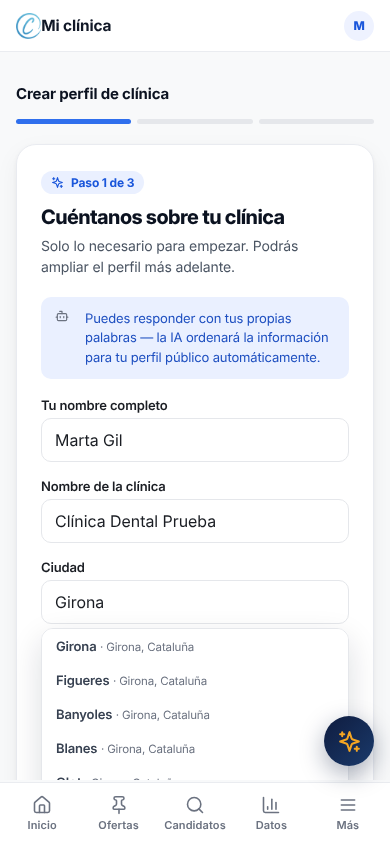
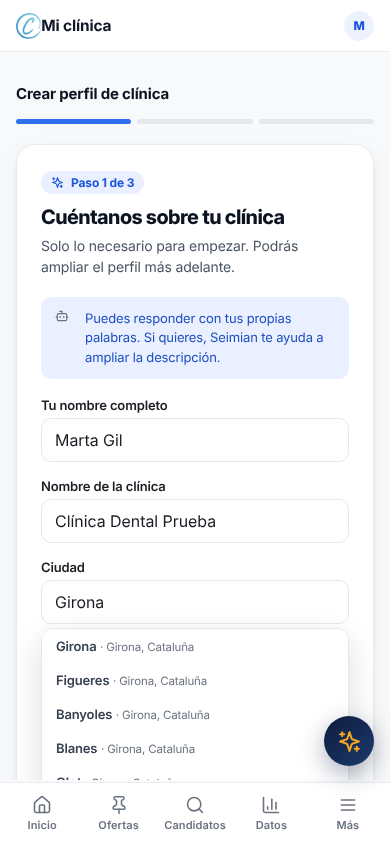
Arreglo: fuera «IA» de los textos (CERCO no usa ninguna IA)
Donde ponía «con IA» o «generado por IA» ahora pone Seimian, como ya hacía el
lado del profesional («Escríbelo con Seimian»). El aviso «la IA ordenará la
información…» pasa a «Si quieres, Seimian te ayuda a ampliar la descripción».
Las pruebas comprueban ahora en cada pantalla que no aparezcan palabras
prohibidas por el encargo (IA, RRHH, responsable de contratación, TikTok…).

Claude-Session: https://claude.ai/code/session_01L5qSpH5ECCjMh1xfSpjWDJ

Changed region(s): [[0.2154, 0.3697, 0.8308, 0.4313]]

diff --git a/index.html b/index.html
@@ -2223,13 +2223,13 @@ __SCREENS_CSS__/* ===== onboarding ===== */
           <div class="tool-icon" style="background:#EEF2FF;"><svg xmlns="http://www.w3.org/2000/svg" width="20" height="20" viewBox="0 0 24 24" fill="none" stroke="#1A56DB" stroke-width="2" stroke-linecap="round" stroke-linejoin="round" style="display:inline-block;vertical-align:-0.15em;flex-shrink:0;"><path d="M21.174 6.812a1 1 0 0 0-3.986-3.987L3.842 16.174a2 2 0 0 0-.5.83l-1.321 4.352a.5.5 0 0 0 .623.622l4.353-1.32a2 2 0 0 0 .83-.497z"/><path d="m15 5 4 4"/></svg></div>
           <span class="tc-chev" id="chev-crear-oferta" style="color:#C1C7D0;transition:transform .2s;margin-top:6px;"><svg xmlns="http://www.w3.org/2000/svg" width="16" height="16" viewBox="0 0 24 24" fill="none" stroke="currentColor" stroke-width="2" stroke-linecap="round" stroke-linejoin="round" style="display:inline-block;vertical-align:-0.15em;flex-shrink:0;"><path d="m6 9 6 6 6-6"/></svg></span>
         </div>
-        <div class="tool-title">Redactar oferta con IA</div>
+        <div class="tool-title">Redactar oferta con Seimian</div>
         <div class="tool-desc">Escribe tres o cuatro palabras clave y Seimian genera la descripción completa del puesto en segundos.</div>
         <div class="tool-badge"><svg xmlns="http://www.w3.org/2000/svg" width="12" height="12" viewBox="0 0 24 24" fill="none" stroke="currentColor" stroke-width="2" stroke-linecap="round" stroke-linejoin="round" style="display:inline-block;vertical-align:-0.15em;flex-shrink:0;"><path d="m12 3-1.9 5.8a2 2 0 0 1-1.3 1.3L3 12l5.8 1.9a2 2 0 0 1 1.3 1.3L12 21l1.9-5.8a2 2 0 0 1 1.3-1.3L21 12l-5.8-1.9a2 2 0 0 1-1.3-1.3z"/><path d="M5 3v4"/><path d="M19 17v4"/><path d="M3 5h4"/><path d="M17 19h4"/></svg>Seimian</div>
       </div>
       <div class="tc-more" id="more-crear-oferta" style="display:none;margin-top:14px;padding-top:14px;border-top:1px solid #F1F3F5;">
         <div style="font-size:10px;font-weight:800;letter-spacing:.8px;text-transform:uppercase;color:#6B7280;margin-bottom:10px;">Cómo funciona</div>
-        <div style="display:flex;gap:9px;align-items:flex-start;margin-bottom:8px;"><span style="min-width:20px;height:20px;border-radius:6px;background:#EEF2FF;color:#1A56DB;font-size:10.5px;font-weight:800;display:flex;align-items:center;justify-content:center;margin-top:1px;">1</span><span style="font-size:12.5px;color:#4B5563;line-height:1.5;">Pulsa "Nueva oferta" y escribe el título y la ubicación.</span></div><div style="display:flex;gap:9px;align-items:flex-start;margin-bottom:8px;"><span style="min-width:20px;height:20px;border-radius:6px;background:#EEF2FF;color:#1A56DB;font-size:10.5px;font-weight:800;display:flex;align-items:center;justify-content:center;margin-top:1px;">2</span><span style="font-size:12.5px;color:#4B5563;line-height:1.5;">Pulsa "Generar descripción con IA" y añade 2-3 palabras clave.</span></div><div style="display:flex;gap:9px;align-items:flex-start;margin-bottom:8px;"><span style="min-width:20px;height:20px;border-radius:6px;background:#EEF2FF;color:#1A56DB;font-size:10.5px;font-weight:800;display:flex;align-items:center;justify-content:center;margin-top:1px;">3</span><span style="font-size:12.5px;color:#4B5563;line-height:1.5;">Revisa el texto y ajústalo si quieres.</span></div><div style="display:flex;gap:9px;align-items:flex-start;margin-bottom:8px;"><span style="min-width:20px;height:20px;border-radius:6px;background:#EEF2FF;color:#1A56DB;font-size:10.5px;font-weight:800;display:flex;align-items:center;justify-content:center;margin-top:1px;">4</span><span style="font-size:12.5px;color:#4B5563;line-height:1.5;">Publica: la oferta aparece al instante en tu panel.</span></div>
+        <div style="display:flex;gap:9px;align-items:flex-start;margin-bottom:8px;"><span style="min-width:20px;height:20px;border-radius:6px;background:#EEF2FF;color:#1A56DB;font-size:10.5px;font-weight:800;display:flex;align-items:center;justify-content:center;margin-top:1px;">1</span><span style="font-size:12.5px;color:#4B5563;line-height:1.5;">Pulsa "Nueva oferta" y escribe el título y la ubicación.</span></div><div style="display:flex;gap:9px;align-items:flex-start;margin-bottom:8px;"><span style="min-width:20px;height:20px;border-radius:6px;background:#EEF2FF;color:#1A56DB;font-size:10.5px;font-weight:800;display:flex;align-items:center;justify-content:center;margin-top:1px;">2</span><span style="font-size:12.5px;color:#4B5563;line-height:1.5;">Pulsa "Generar descripción con Seimian" y añade 2-3 palabras clave.</span></div><div style="display:flex;gap:9px;align-items:flex-start;margin-bottom:8px;"><span style="min-width:20px;height:20px;border-radius:6px;background:#EEF2FF;color:#1A56DB;font-size:10.5px;font-weight:800;display:flex;align-items:center;justify-content:center;margin-top:1px;">3</span><span style="font-size:12.5px;color:#4B5563;line-height:1.5;">Revisa el texto y ajústalo si quieres.</span></div><div style="display:flex;gap:9px;align-items:flex-start;margin-bottom:8px;"><span style="min-width:20px;height:20px;border-radius:6px;background:#EEF2FF;color:#1A56DB;font-size:10.5px;font-weight:800;display:flex;align-items:center;justify-content:center;margin-top:1px;">4</span><span style="font-size:12.5px;color:#4B5563;line-height:1.5;">Publica: la oferta aparece al instante en tu panel.</span></div>
         <div style="background:#F5F7FF;border-radius:9px;padding:10px 12px;font-size:12px;color:#1E40AF;line-height:1.5;margin-top:10px;">Seimian también propone dos combinaciones de perfil DISC válidas según el puesto que escribas.</div>
         <button onclick="event.stopPropagation(); showScreen('crear-oferta')" style="width:100%;margin-top:12px;background:#1A56DB;color:white;border:none;border-radius:9px;padding:10px;font-size:13px;font-weight:700;cursor:pointer;">Abrir esta herramienta</button>
       </div>
@@ -2287,7 +2287,7 @@ __SCREENS_CSS__/* ===== onboarding ===== */
       </div>
       <div class="tc-more" id="more-nueva" style="display:none;margin-top:14px;padding-top:14px;border-top:1px solid #F1F3F5;">
         <div style="font-size:10px;font-weight:800;letter-spacing:.8px;text-transform:uppercase;color:#6B7280;margin-bottom:10px;">Cómo funciona</div>
-        <div style="display:flex;gap:9px;align-items:flex-start;margin-bottom:8px;"><span style="min-width:20px;height:20px;border-radius:6px;background:#EEF2FF;color:#1A56DB;font-size:10.5px;font-weight:800;display:flex;align-items:center;justify-content:center;margin-top:1px;">1</span><span style="font-size:12.5px;color:#4B5563;line-height:1.5;">Escribe título, ubicación y tipo de jornada.</span></div><div style="display:flex;gap:9px;align-items:flex-start;margin-bottom:8px;"><span style="min-width:20px;height:20px;border-radius:6px;background:#EEF2FF;color:#1A56DB;font-size:10.5px;font-weight:800;display:flex;align-items:center;justify-content:center;margin-top:1px;">2</span><span style="font-size:12.5px;color:#4B5563;line-height:1.5;">Marca al menos dos perfiles DISC que encajen con el puesto.</span></div><div style="display:flex;gap:9px;align-items:flex-start;margin-bottom:8px;"><span style="min-width:20px;height:20px;border-radius:6px;background:#EEF2FF;color:#1A56DB;font-size:10.5px;font-weight:800;display:flex;align-items:center;justify-content:center;margin-top:1px;">3</span><span style="font-size:12.5px;color:#4B5563;line-height:1.5;">Genera la descripción con IA o escríbela tú.</span></div><div style="display:flex;gap:9px;align-items:flex-start;margin-bottom:8px;"><span style="min-width:20px;height:20px;border-radius:6px;background:#EEF2FF;color:#1A56DB;font-size:10.5px;font-weight:800;display:flex;align-items:center;justify-content:center;margin-top:1px;">4</span><span style="font-size:12.5px;color:#4B5563;line-height:1.5;">Publica: empezarás a recibir candidatos ordenados por encaje.</span></div>
+        <div style="display:flex;gap:9px;align-items:flex-start;margin-bottom:8px;"><span style="min-width:20px;height:20px;border-radius:6px;background:#EEF2FF;color:#1A56DB;font-size:10.5px;font-weight:800;display:flex;align-items:center;justify-content:center;margin-top:1px;">1</span><span style="font-size:12.5px;color:#4B5563;line-height:1.5;">Escribe título, ubicación y tipo de jornada.</span></div><div style="display:flex;gap:9px;align-items:flex-start;margin-bottom:8px;"><span style="min-width:20px;height:20px;border-radius:6px;background:#EEF2FF;color:#1A56DB;font-size:10.5px;font-weight:800;display:flex;align-items:center;justify-content:center;margin-top:1px;">2</span><span style="font-size:12.5px;color:#4B5563;line-height:1.5;">Marca al menos dos perfiles DISC que encajen con el puesto.</span></div><div style="display:flex;gap:9px;align-items:flex-start;margin-bottom:8px;"><span style="min-width:20px;height:20px;border-radius:6px;background:#EEF2FF;color:#1A56DB;font-size:10.5px;font-weight:800;display:flex;align-items:center;justify-content:center;margin-top:1px;">3</span><span style="font-size:12.5px;color:#4B5563;line-height:1.5;">Genera la descripción con Seimian o escríbela tú.</span></div><div style="display:flex;gap:9px;align-items:flex-start;margin-bottom:8px;"><span style="min-width:20px;height:20px;border-radius:6px;background:#EEF2FF;color:#1A56DB;font-size:10.5px;font-weight:800;display:flex;align-items:center;justify-content:center;margin-top:1px;">4</span><span style="font-size:12.5px;color:#4B5563;line-height:1.5;">Publica: empezarás a recibir candidatos ordenados por encaje.</span></div>
         <div style="background:#F5F7FF;border-radius:9px;padding:10px 12px;font-size:12px;color:#1E40AF;line-height:1.5;margin-top:10px;">La oferta se guarda en este dispositivo, así que la verás al volver a entrar.</div>
         <button onclick="event.stopPropagation(); showScreen('crear-oferta')" style="width:100%;margin-top:12px;background:#1A56DB;color:white;border:none;border-radius:9px;padding:10px;font-size:13px;font-weight:700;cursor:pointer;">Abrir esta herramienta</button>
       </div>
@@ -2323,7 +2323,7 @@ __SCREENS_CSS__/* ===== onboarding ===== */
   <h1>+ Crear nueva oferta</h1>
   <div class="sub">Rellena lo esencial — podrás editarla después. Tardarás menos de un minuto.</div>
 
-  <div class="ai-hint"><svg xmlns="http://www.w3.org/2000/svg" width="14" height="14" viewBox="0 0 24 24" fill="none" stroke="#6B7280" stroke-width="2" stroke-linecap="round" stroke-linejoin="round" style="display:inline-block;vertical-align:-0.15em;flex-shrink:0;"><path d="M12 8V4H8"/><rect width="16" height="12" x="4" y="8" rx="2"/><path d="M2 14h2"/><path d="M20 14h2"/><path d="M15 13v2"/><path d="M9 13v2"/></svg> Escribe el título y la ubicación; el resto puedes generarlo con IA o rellenarlo tú mismo/a.</div>
+  <div class="ai-hint"><svg xmlns="http://www.w3.org/2000/svg" width="14" height="14" viewBox="0 0 24 24" fill="none" stroke="#6B7280" stroke-width="2" stroke-linecap="round" stroke-linejoin="round" style="display:inline-block;vertical-align:-0.15em;flex-shrink:0;"><path d="M12 8V4H8"/><rect width="16" height="12" x="4" y="8" rx="2"/><path d="M2 14h2"/><path d="M20 14h2"/><path d="M15 13v2"/><path d="M9 13v2"/></svg> Escribe el título y la ubicación; el resto puedes generarlo con Seimian o rellenarlo tú mismo/a.</div>
 
   <div class="card">
     <div class="field">
@@ -2414,7 +2414,7 @@ __SCREENS_CSS__/* ===== onboarding ===== */
     <div class="field">
       <label>Descripción del puesto</label>
       <textarea id="co-descripcion" placeholder="Ej: buscamos a alguien con ganas de aprender, que aporte buen rollo al equipo y trato cercano con el paciente..."></textarea>
-      <button type="button" class="ai-suggest-btn" onclick="generateOfferDescAI()"><span style="display:inline-flex;align-items:center;gap:7px;"><svg xmlns="http://www.w3.org/2000/svg" width="14" height="14" viewBox="0 0 24 24" fill="none" stroke="currentColor" stroke-width="2" stroke-linecap="round" stroke-linejoin="round" style="display:inline-block;vertical-align:-0.15em;flex-shrink:0;"><path d="m12 3-1.9 5.8a2 2 0 0 1-1.3 1.3L3 12l5.8 1.9a2 2 0 0 1 1.3 1.3L12 21l1.9-5.8a2 2 0 0 1 1.3-1.3L21 12l-5.8-1.9a2 2 0 0 1-1.3-1.3z"/><path d="M5 3v4"/><path d="M19 17v4"/><path d="M3 5h4"/><path d="M17 19h4"/></svg>Generar descripción con IA</span></button>
+      <button type="button" class="ai-suggest-btn" onclick="generateOfferDescAI()"><span style="display:inline-flex;align-items:center;gap:7px;"><svg xmlns="http://www.w3.org/2000/svg" width="14" height="14" viewBox="0 0 24 24" fill="none" stroke="currentColor" stroke-width="2" stroke-linecap="round" stroke-linejoin="round" style="display:inline-block;vertical-align:-0.15em;flex-shrink:0;"><path d="m12 3-1.9 5.8a2 2 0 0 1-1.3 1.3L3 12l5.8 1.9a2 2 0 0 1 1.3 1.3L12 21l1.9-5.8a2 2 0 0 1 1.3-1.3L21 12l-5.8-1.9a2 2 0 0 1-1.3-1.3z"/><path d="M5 3v4"/><path d="M19 17v4"/><path d="M3 5h4"/><path d="M17 19h4"/></svg>Generar descripción con Seimian</span></button>
     </div>
 
     <div class="field">
@@ -2574,7 +2574,7 @@ __SCREENS_CSS__/* ===== onboarding ===== */
           <div style="font-size:12px;color:#6B7280;">Mañana · 10:30 · Videollamada</div>
         </div>
       </div>
-      <button onclick="showScreen('entrevista')" style="width:100%;background:#F0F7FF;color:#1A56DB;border:none;border-radius:9px;padding:9px;font-size:12.5px;font-weight:700;cursor:pointer;">Ver preguntas sugeridas por IA →</button>
+      <button onclick="showScreen('entrevista')" style="width:100%;background:#F0F7FF;color:#1A56DB;border:none;border-radius:9px;padding:9px;font-size:12.5px;font-weight:700;cursor:pointer;">Ver preguntas sugeridas por Seimian →</button>
     </div>
 
     <!-- Insight IA del día -->
@@ -3260,7 +3260,7 @@ __SCREENS_CSS__/* ===== onboarding ===== */
     <div class="eyebrow"><span style="display:inline-flex;align-items:center;gap:7px;"><svg xmlns="http://www.w3.org/2000/svg" width="13" height="13" viewBox="0 0 24 24" fill="none" stroke="currentColor" stroke-width="2" stroke-linecap="round" stroke-linejoin="round" style="display:inline-block;vertical-align:-0.15em;flex-shrink:0;"><path d="m12 3-1.9 5.8a2 2 0 0 1-1.3 1.3L3 12l5.8 1.9a2 2 0 0 1 1.3 1.3L12 21l1.9-5.8a2 2 0 0 1 1.3-1.3L21 12l-5.8-1.9a2 2 0 0 1-1.3-1.3z"/><path d="M5 3v4"/><path d="M19 17v4"/><path d="M3 5h4"/><path d="M17 19h4"/></svg>Paso 1 de 3</span></div>
     <h1>Cuéntanos sobre tu clínica</h1>
     <p class="sub">Solo lo necesario para empezar. Podrás ampliar el perfil más adelante.</p>
-    <div class="ai-hint"><svg xmlns="http://www.w3.org/2000/svg" width="14" height="14" viewBox="0 0 24 24" fill="none" stroke="#6B7280" stroke-width="2" stroke-linecap="round" stroke-linejoin="round" style="display:inline-block;vertical-align:-0.15em;flex-shrink:0;"><path d="M12 8V4H8"/><rect width="16" height="12" x="4" y="8" rx="2"/><path d="M2 14h2"/><path d="M20 14h2"/><path d="M15 13v2"/><path d="M9 13v2"/></svg> Puedes responder con tus propias palabras — la IA ordenará la información para tu perfil público automáticamente.</div>
+    <div class="ai-hint"><svg xmlns="http://www.w3.org/2000/svg" width="14" height="14" viewBox="0 0 24 24" fill="none" stroke="#6B7280" stroke-width="2" stroke-linecap="round" stroke-linejoin="round" style="display:inline-block;vertical-align:-0.15em;flex-shrink:0;"><path d="M12 8V4H8"/><rect width="16" height="12" x="4" y="8" rx="2"/><path d="M2 14h2"/><path d="M20 14h2"/><path d="M15 13v2"/><path d="M9 13v2"/></svg> Puedes responder con tus propias palabras. Si quieres, Seimian te ayuda a ampliar la descripción.</div>
 
     <div class="field">
       <label>Tu nombre completo</label>
@@ -3306,7 +3306,7 @@ __SCREENS_CSS__/* ===== onboarding ===== */
     <div class="field">
       <label>En pocas palabras, ¿cómo es trabajar en tu clínica?</label>
       <textarea id="f-desc-onboarding" placeholder="Ej: equipo joven, ambiente colaborativo, formación continua..."></textarea>
-      <button type="button" onclick="generateDescAI_onboarding()" style="margin-top:8px;background:#EAF0FF;color:#1E4FC0;border:none;border-radius:8px;padding:8px 14px;font-size:12.5px;font-weight:700;cursor:pointer;display:flex;align-items:center;gap:6px;"><span style="display:inline-flex;align-items:center;gap:7px;"><svg xmlns="http://www.w3.org/2000/svg" width="14" height="14" viewBox="0 0 24 24" fill="none" stroke="currentColor" stroke-width="2" stroke-linecap="round" stroke-linejoin="round" style="display:inline-block;vertical-align:-0.15em;flex-shrink:0;"><path d="m12 3-1.9 5.8a2 2 0 0 1-1.3 1.3L3 12l5.8 1.9a2 2 0 0 1 1.3 1.3L12 21l1.9-5.8a2 2 0 0 1 1.3-1.3L21 12l-5.8-1.9a2 2 0 0 1-1.3-1.3z"/><path d="M5 3v4"/><path d="M19 17v4"/><path d="M3 5h4"/><path d="M17 19h4"/></svg>Ampliar con IA</span></button>
+      <button type="button" onclick="generateDescAI_onboarding()" style="margin-top:8px;background:#EAF0FF;color:#1E4FC0;border:none;border-radius:8px;padding:8px 14px;font-size:12.5px;font-weight:700;cursor:pointer;display:flex;align-items:center;gap:6px;"><span style="display:inline-flex;align-items:center;gap:7px;"><svg xmlns="http://www.w3.org/2000/svg" width="14" height="14" viewBox="0 0 24 24" fill="none" stroke="currentColor" stroke-width="2" stroke-linecap="round" stroke-linejoin="round" style="display:inline-block;vertical-align:-0.15em;flex-shrink:0;"><path d="m12 3-1.9 5.8a2 2 0 0 1-1.3 1.3L3 12l5.8 1.9a2 2 0 0 1 1.3 1.3L12 21l1.9-5.8a2 2 0 0 1 1.3-1.3L21 12l-5.8-1.9a2 2 0 0 1-1.3-1.3z"/><path d="M5 3v4"/><path d="M19 17v4"/><path d="M3 5h4"/><path d="M17 19h4"/></svg>Ampliar con Seimian</span></button>
       <div id="desc-ai-status-onboarding" style="font-size:11.5px;color:#6B7280;margin-top:4px;"></div>
     </div>
 
@@ -3852,7 +3852,7 @@ __SCREENS_CSS__/* ===== onboarding ===== */
           <div class="mini-row"><div class="mini-label">C</div><div class="mini-track"><div class="mini-fill" style="width:26%;background:#5B5FE0;"></div></div><div class="mini-pct">26%</div></div>
         </div>
         <div class="ai-callout">
-          <b>RECOMENDACIÓN IA</b>
+          <b>RECOMENDACIÓN DE SEIMIAN</b>
           Vuestro equipo tiene poca presencia del perfil Dominante (D). Para próximas contrataciones de roles con mucha toma de decisiones, considerad priorizar candidatos con este perfil.
         </div>
       </div>
@@ -3970,7 +3970,7 @@ __SCREENS_CSS__/* ===== onboarding ===== */
       <div class="card">
         <h3>Consejo para ti</h3>
         <div class="ai-callout">
-          <b>GENERADO POR IA</b>
+          <b>PREPARADO POR SEIMIAN</b>
           Personaliza tu currículum y carta de presentación para destacar tus habilidades relacionadas con higiene dental y atención al paciente. Si todavía no has hecho el test de perfil, hacerlo antes de aplicar mejora tu visibilidad para esta oferta.
         </div>
       </div>
@@ -3997,7 +3997,7 @@ __SCREENS_CSS__/* ===== onboarding ===== */
   <div class="ai-summary">
     <div class="ai-summary-icon"><svg xmlns="http://www.w3.org/2000/svg" width="24" height="24" viewBox="0 0 24 24" fill="none" stroke="white" stroke-width="1.8" stroke-linecap="round" stroke-linejoin="round" style="display:inline-block;vertical-align:-0.15em;flex-shrink:0;"><path d="m12 3-1.9 5.8a2 2 0 0 1-1.3 1.3L3 12l5.8 1.9a2 2 0 0 1 1.3 1.3L12 21l1.9-5.8a2 2 0 0 1 1.3-1.3L21 12l-5.8-1.9a2 2 0 0 1-1.3-1.3z"/><path d="M5 3v4"/><path d="M19 17v4"/><path d="M3 5h4"/><path d="M17 19h4"/></svg></div>
     <div>
-      <div class="ai-summary-label">RESUMEN GENERADO POR IA</div>
+      <div class="ai-summary-label">RESUMEN PREPARADO POR SEIMIAN</div>
       <div class="ai-summary-text">Higienista con <b>2 años de experiencia</b>, perfil <b>Influyente (I)</b> — comunicativa y orientada al paciente. Disponibilidad inmediata. Su perfil <b>complementa el hueco actual de tu equipo</b> (poca presencia de perfil I). Encaje global: <b>92%</b>.</div>
     </div>
   </div>
@@ -4211,13 +4211,13 @@ function generateDescAI_onboarding(){
     status.style.color = '#DC2626';
     return;
   }
-  status.textContent = 'Generando con IA...';
+  status.textContent = 'Seimian lo está escribiendo…';
   status.style.color = '#6B7280';
   setTimeout(()=>{
     const keywords = raw.split(/[,.;\n]/).map(k=>k.trim()).filter(Boolean).map(k=>k.charAt(0).toLowerCase()+k.slice(1));
     const kwText = keywords.length > 1 ? keywords.slice(0,-1).join(', ') + ' y ' + keywords[keywords.length-1] : (keywords[0] || raw);
     field.value = `Así es trabajar con nosotros: ${kwText}. Cuidamos tanto al paciente como al equipo, y queremos que cada persona que entra pueda crecer y aportar lo mejor de sí misma.`;
-    status.innerHTML = '<svg xmlns="http://www.w3.org/2000/svg" width="15" height="15" viewBox="0 0 24 24" fill="none" stroke="#059669" stroke-width="2" stroke-linecap="round" stroke-linejoin="round" style="display:inline-block;vertical-align:-0.15em;flex-shrink:0;"><path d="M21.801 10A10 10 0 1 1 17 3.335"/><path d="m9 11 3 3L22 4"/></svg> Texto generado por IA a partir de tus palabras clave — puedes editarlo libremente.';
+    status.innerHTML = '<svg xmlns="http://www.w3.org/2000/svg" width="15" height="15" viewBox="0 0 24 24" fill="none" stroke="#059669" stroke-width="2" stroke-linecap="round" stroke-linejoin="round" style="display:inline-block;vertical-align:-0.15em;flex-shrink:0;"><path d="M21.801 10A10 10 0 1 1 17 3.335"/><path d="m9 11 3 3L22 4"/></svg> Texto preparado por Seimian a partir de tus palabras clave — puedes editarlo libremente.';
     status.style.color = '#0E9F6E';
   }, 900);
 }
@@ -6057,7 +6057,7 @@ var tourSteps_ofertes = [
 
   { selector: '#tc-stats', title: "4 · Análisis del equipo",
     text: "Seimian analiza la personalidad de toda tu plantilla y te dice qué perfil falta, para que sepas a quién buscar en la próxima contratación.", pos: 'bottom', screen: 'herramientas' },
-  { selector: '#tc-crear-oferta', title: "5 · Redactar oferta con IA",
+  { selector: '#tc-crear-oferta', title: "5 · Redactar oferta con Seimian",
     text: "Escribes tres palabras y Seimian redacta la oferta entera. Además te propone dos combinaciones de perfil válidas para ese puesto.", pos: 'bottom', screen: 'herramientas' },
   { selector: '#tc-entrevista', title: "6 · Preguntas de entrevista",
     text: "Seimian prepara preguntas concretas según el perfil de cada candidato, para que la entrevista te diga lo que el CV no dice.", pos: 'bottom', screen: 'herramientas' },
@@ -6471,7 +6471,7 @@ function generateOfferDescAI(){
   const titulo = document.getElementById('co-titulo').value.trim() || 'este puesto';
   const field = document.getElementById('co-descripcion');
   field.value = `Buscamos a alguien para el puesto de ${titulo}, con ganas de aprender y crecer dentro de un equipo cercano y dinámico. Valoramos sobre todo la actitud, el trato con el paciente y las ganas de formar parte de un proyecto serio a largo plazo.`;
-  showToast('Descripción generada con IA');
+  showToast('Descripción preparada por Seimian');
 }
 /* Afegir una habilitat a la sol·licitud: abans el boto no feia res
    i el que escrivies no s afegia mai. */

diff --git a/pruebas/apoyo/entorno.js b/pruebas/apoyo/entorno.js
@@ -108,7 +108,22 @@ async function nuevaVentana(browser, testInfo, extra = {}) {
 // guarda; las siguientes se compara con la guardada. Se tapan los vídeos
 // (cada fotograma es distinto) y los avisos flotantes que desaparecen solos.
 const CSS_CAPTURA = path.join(__dirname, 'captura.css');
+
+// Palabras que el encargo prohíbe en la interfaz. Se comprueban en cada
+// pantalla de la que se hace captura.
+const PROHIBIDAS = [
+  /responsable de contrataci[oó]n/i, /\bRRHH\b/, /\bIA\b/, /tik ?tok/i,
+  /\bmatching\b/i, /\bkanban\b/i, /caja negra/i,
+];
+async function sinPalabrasProhibidas(page, nombre) {
+  const texto = await page.evaluate(() => document.body.innerText);
+  for (const p of PROHIBIDAS) {
+    const m = texto.match(p);
+    base.expect(m, `«${m && m[0]}» aparece en la pantalla ${nombre}`).toBeNull();
+  }
+}
 async function capturar(page, nombre, opciones = {}) {
+  await sinPalabrasProhibidas(page, nombre);
   if (process.env.SIN_CAPTURAS) return;
   // Si se pide, se coloca un elemento en el centro de la pantalla antes de
   // la captura, para que el desplazamiento sea siempre el mismo.
